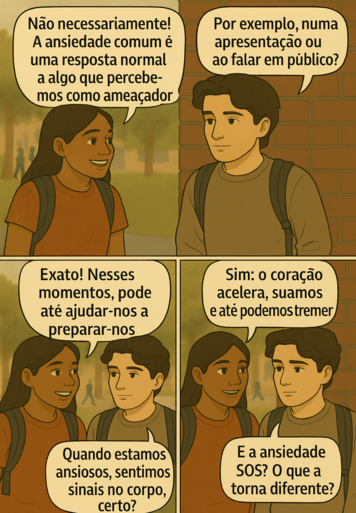
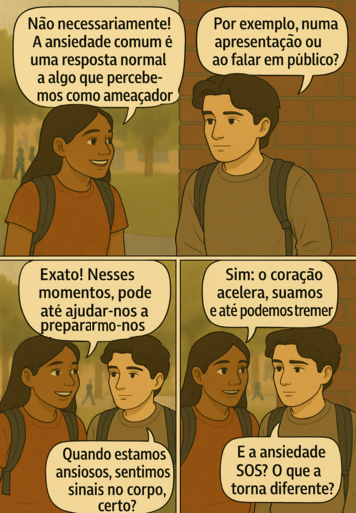
alteracoes_modulo 1_ paula

Changed region(s): [[0.0927, 0.6238, 0.4017, 0.655]]

diff --git a/src/components/atividades/modulo1/unindoExperiencias.js b/src/components/atividades/modulo1/unindoExperiencias.js
@@ -115,8 +115,7 @@ const [comportamento, setComportamento] = useState("");
                       nesta experiência.</strong> A ansiedade é uma <strong>emoção comum e partilhada por todos os seres humanos.</strong><br></br><br></br>
                       Este conceito de <strong>"humanidade comum"</strong> mostra-nos que as nossas dificuldades, fracassos e
                       sofrimento não são únicos ou isolados, mas fazem parte de uma experiência <strong>universal.</strong><br></br><br></br>
-                      Reconhecer que o nosso sofrimento é algo que nos <strong>conecta aos outros</strong>,
-                      e não algo que nos afasta.<br></br><br></br>
+                      Quando reconhecemos que o <strong> nosso sofrimento ou dificuldades </strong> fazem parte de uma experiência que todos sentimos, isso ajuda-nos a <strong>conectar aos outros</strong>.<br></br><br></br>
                       No <strong>vídeo</strong> que se segue vais poder ouvir o que outras pessoas próximas da tua idade têm a dizer sobre as suas experiências com a <strong>ansiedade</strong>.<br></br>
                     
                     </p>

diff --git a/src/components/atividades/modulo1/bandaDesenhada.js b/src/components/atividades/modulo1/bandaDesenhada.js
@@ -278,7 +278,7 @@ if (!user) {
                 <p className="lead">
                  Espero que esta atividade tenha sido <strong>importante para compreenderes melhor</strong> como a <strong>ansiedade</strong> pode interferir na tua vida.
                  <br /><br />
-                 Lembra-te de que a <strong>ansiedade comum</strong> pode ser uma <strong>aliada</strong>, <strong>ajudando-nos</strong> a enfrentar desafios e a <strong>preparar-nos</strong> para momentos difíceis.
+                 Lembra-te de que a <strong>ansiedade comum</strong> pode ser uma <strong>aliada</strong>, <strong>ajudando-nos</strong> a enfrentar desafios e a <strong>prepararmo-nos</strong> para momentos difíceis.
                  <br /><br />
                  No entanto, quando a <strong>ansiedade se torna SOS</strong>, ela pode interferir no nosso <strong>bem-estar</strong> e até prejudicar as nossas <strong>relações</strong> e <strong>atividades diárias</strong>.
                  <br /><br />
